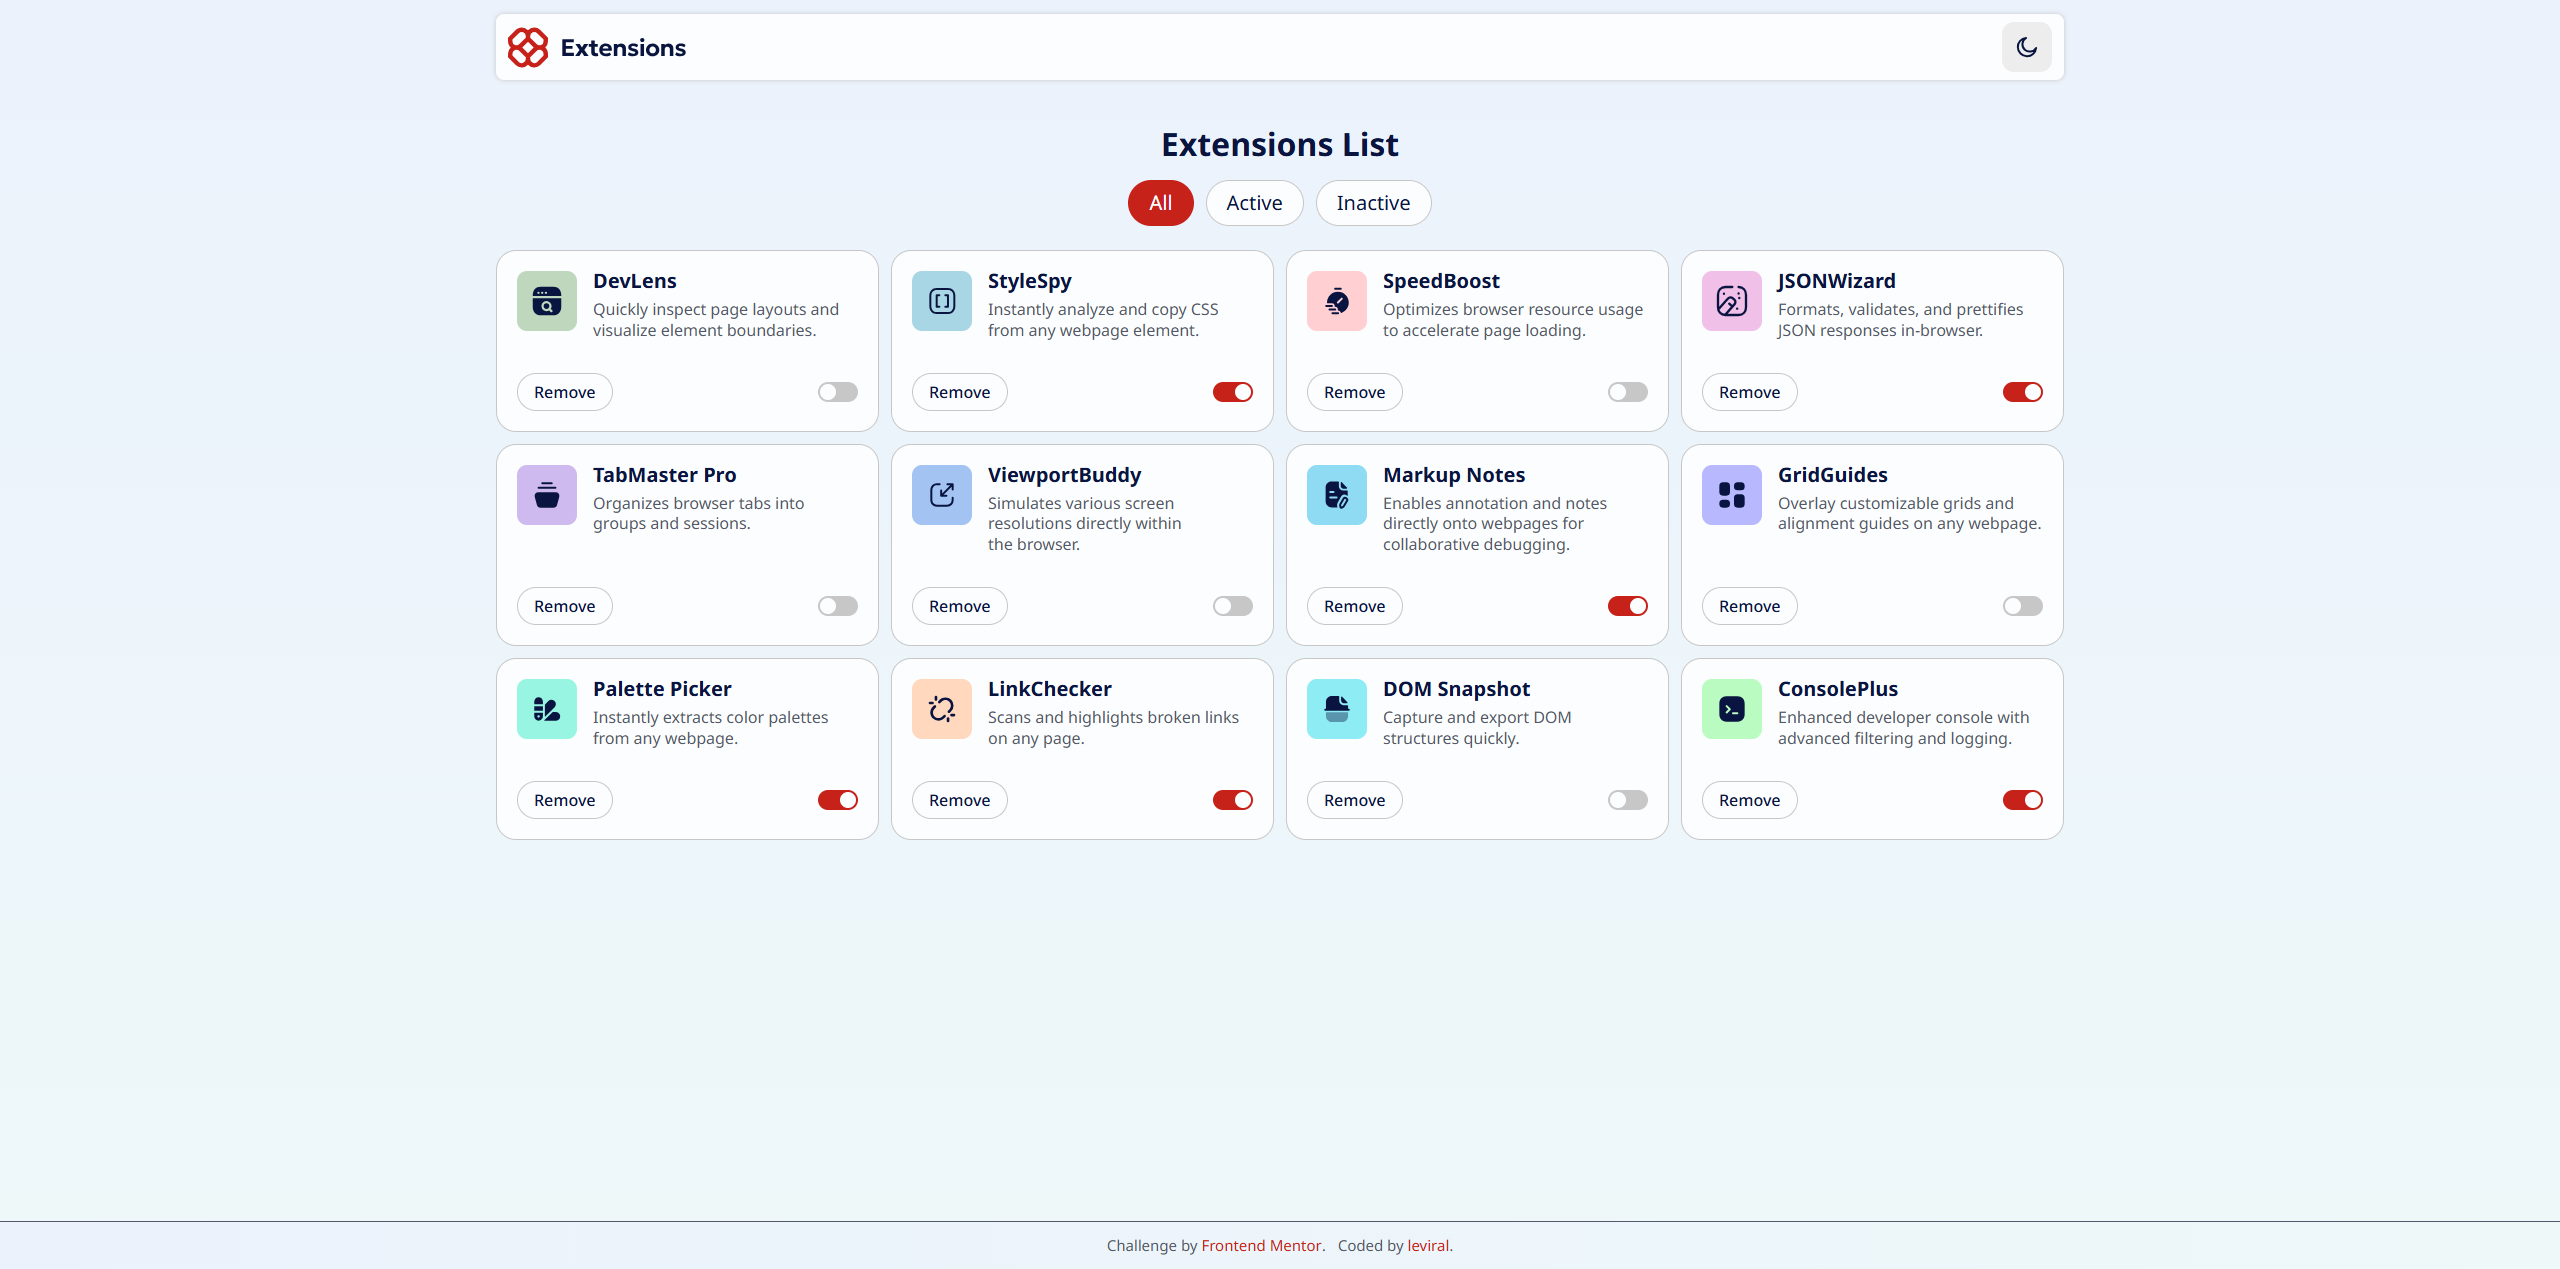
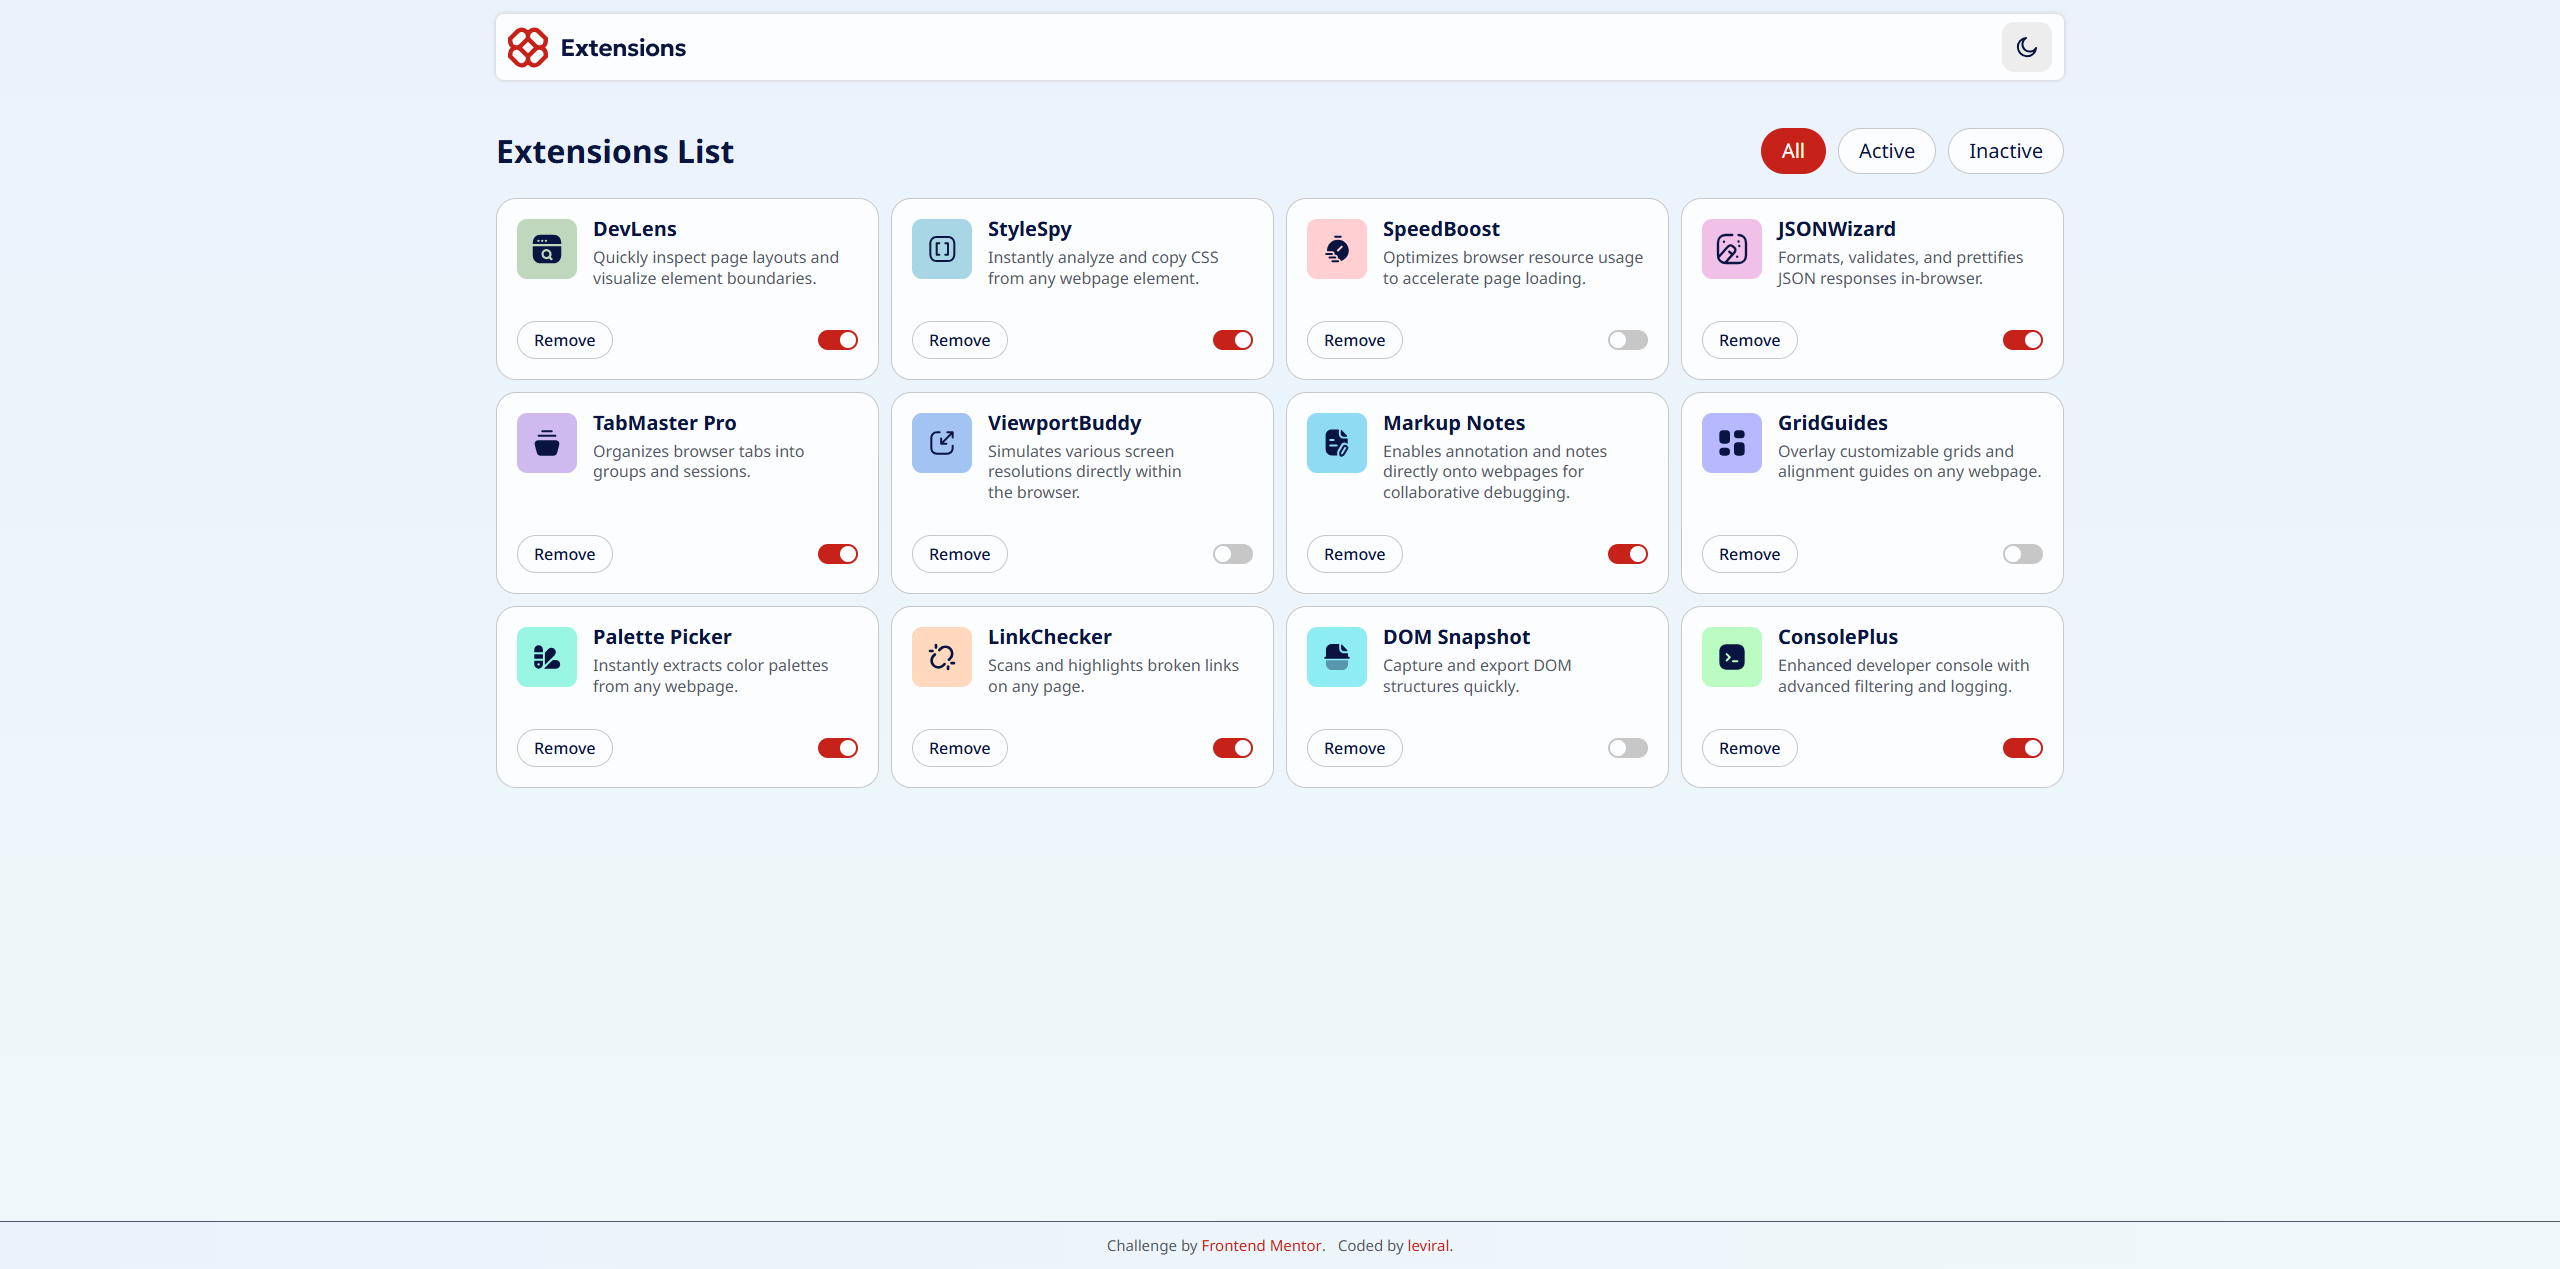
README changes

diff --git a/style.css b/style.css
@@ -252,6 +252,11 @@ body {
     & h1 {
         text-align: center;
     }
+
+    @media (min-width: 768px) {
+        flex-direction: row;
+        justify-content: space-between;
+    }
 }
 
 .btn-list {

diff --git a/README.md b/README.md
@@ -39,7 +39,7 @@ Users should be able to:
 ### Links
 
 - Solution URL: [Frontend Mentor](https://www.frontendmentor.io/solutions/browser-extensions-dashboard-HsH8bX4RfT)
-- Live Site URL: [Netlify](https://68d6e1654a142830619cd171--starlit-eclair-f8a11c.netlify.app/)
+- Live Site URL: [Netlify]()*
 
 ## My process
 
